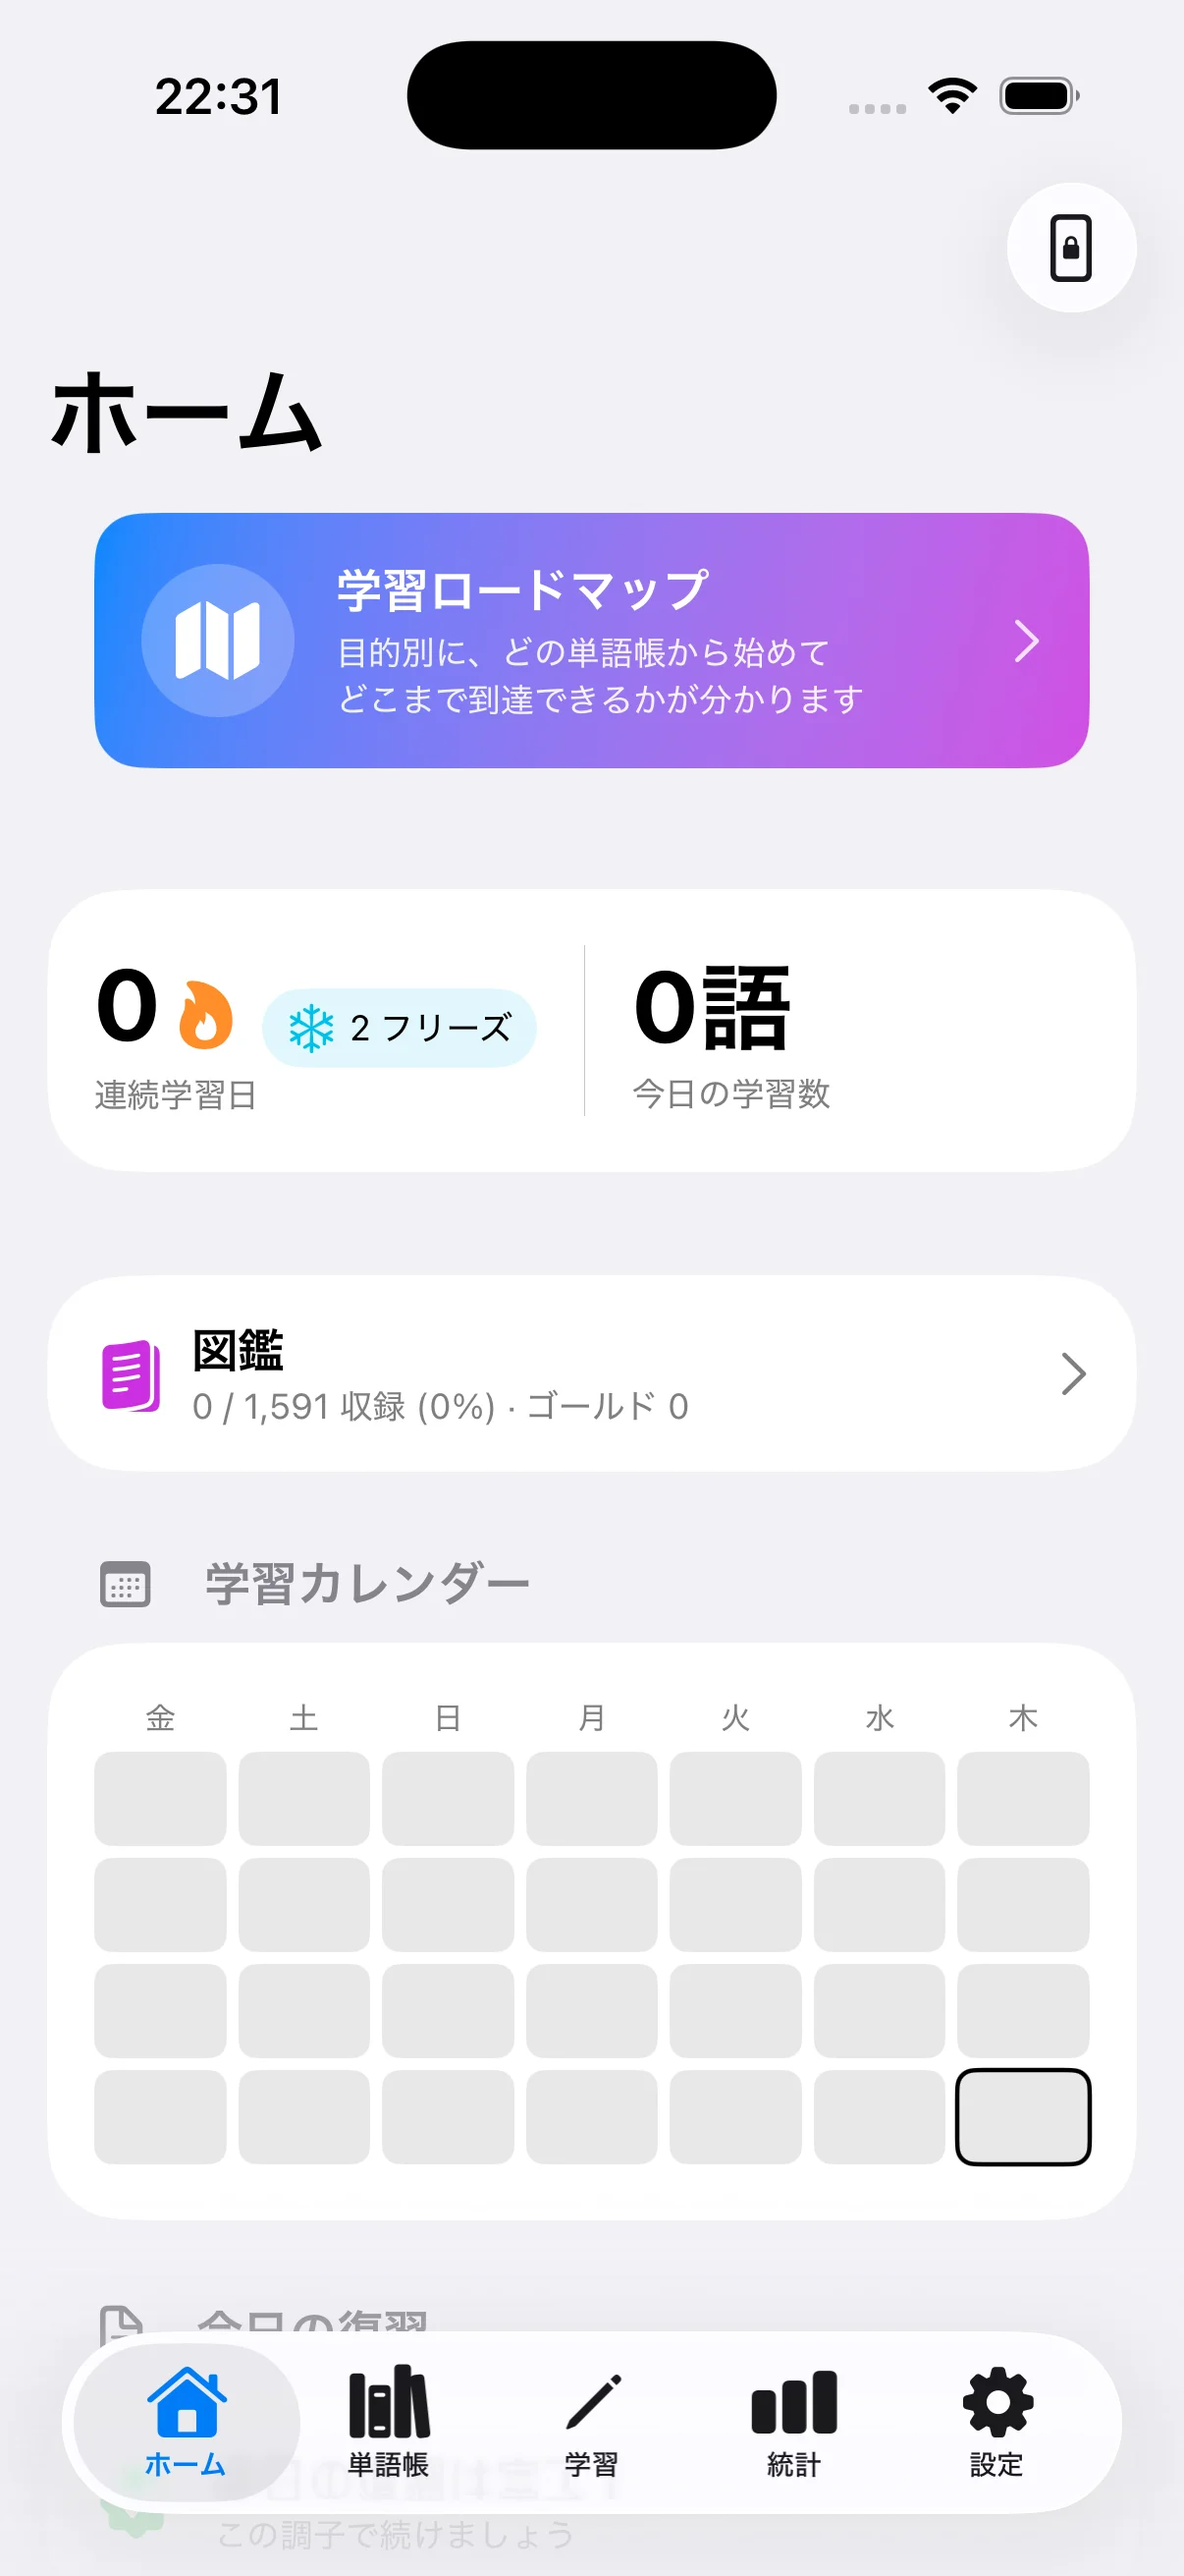
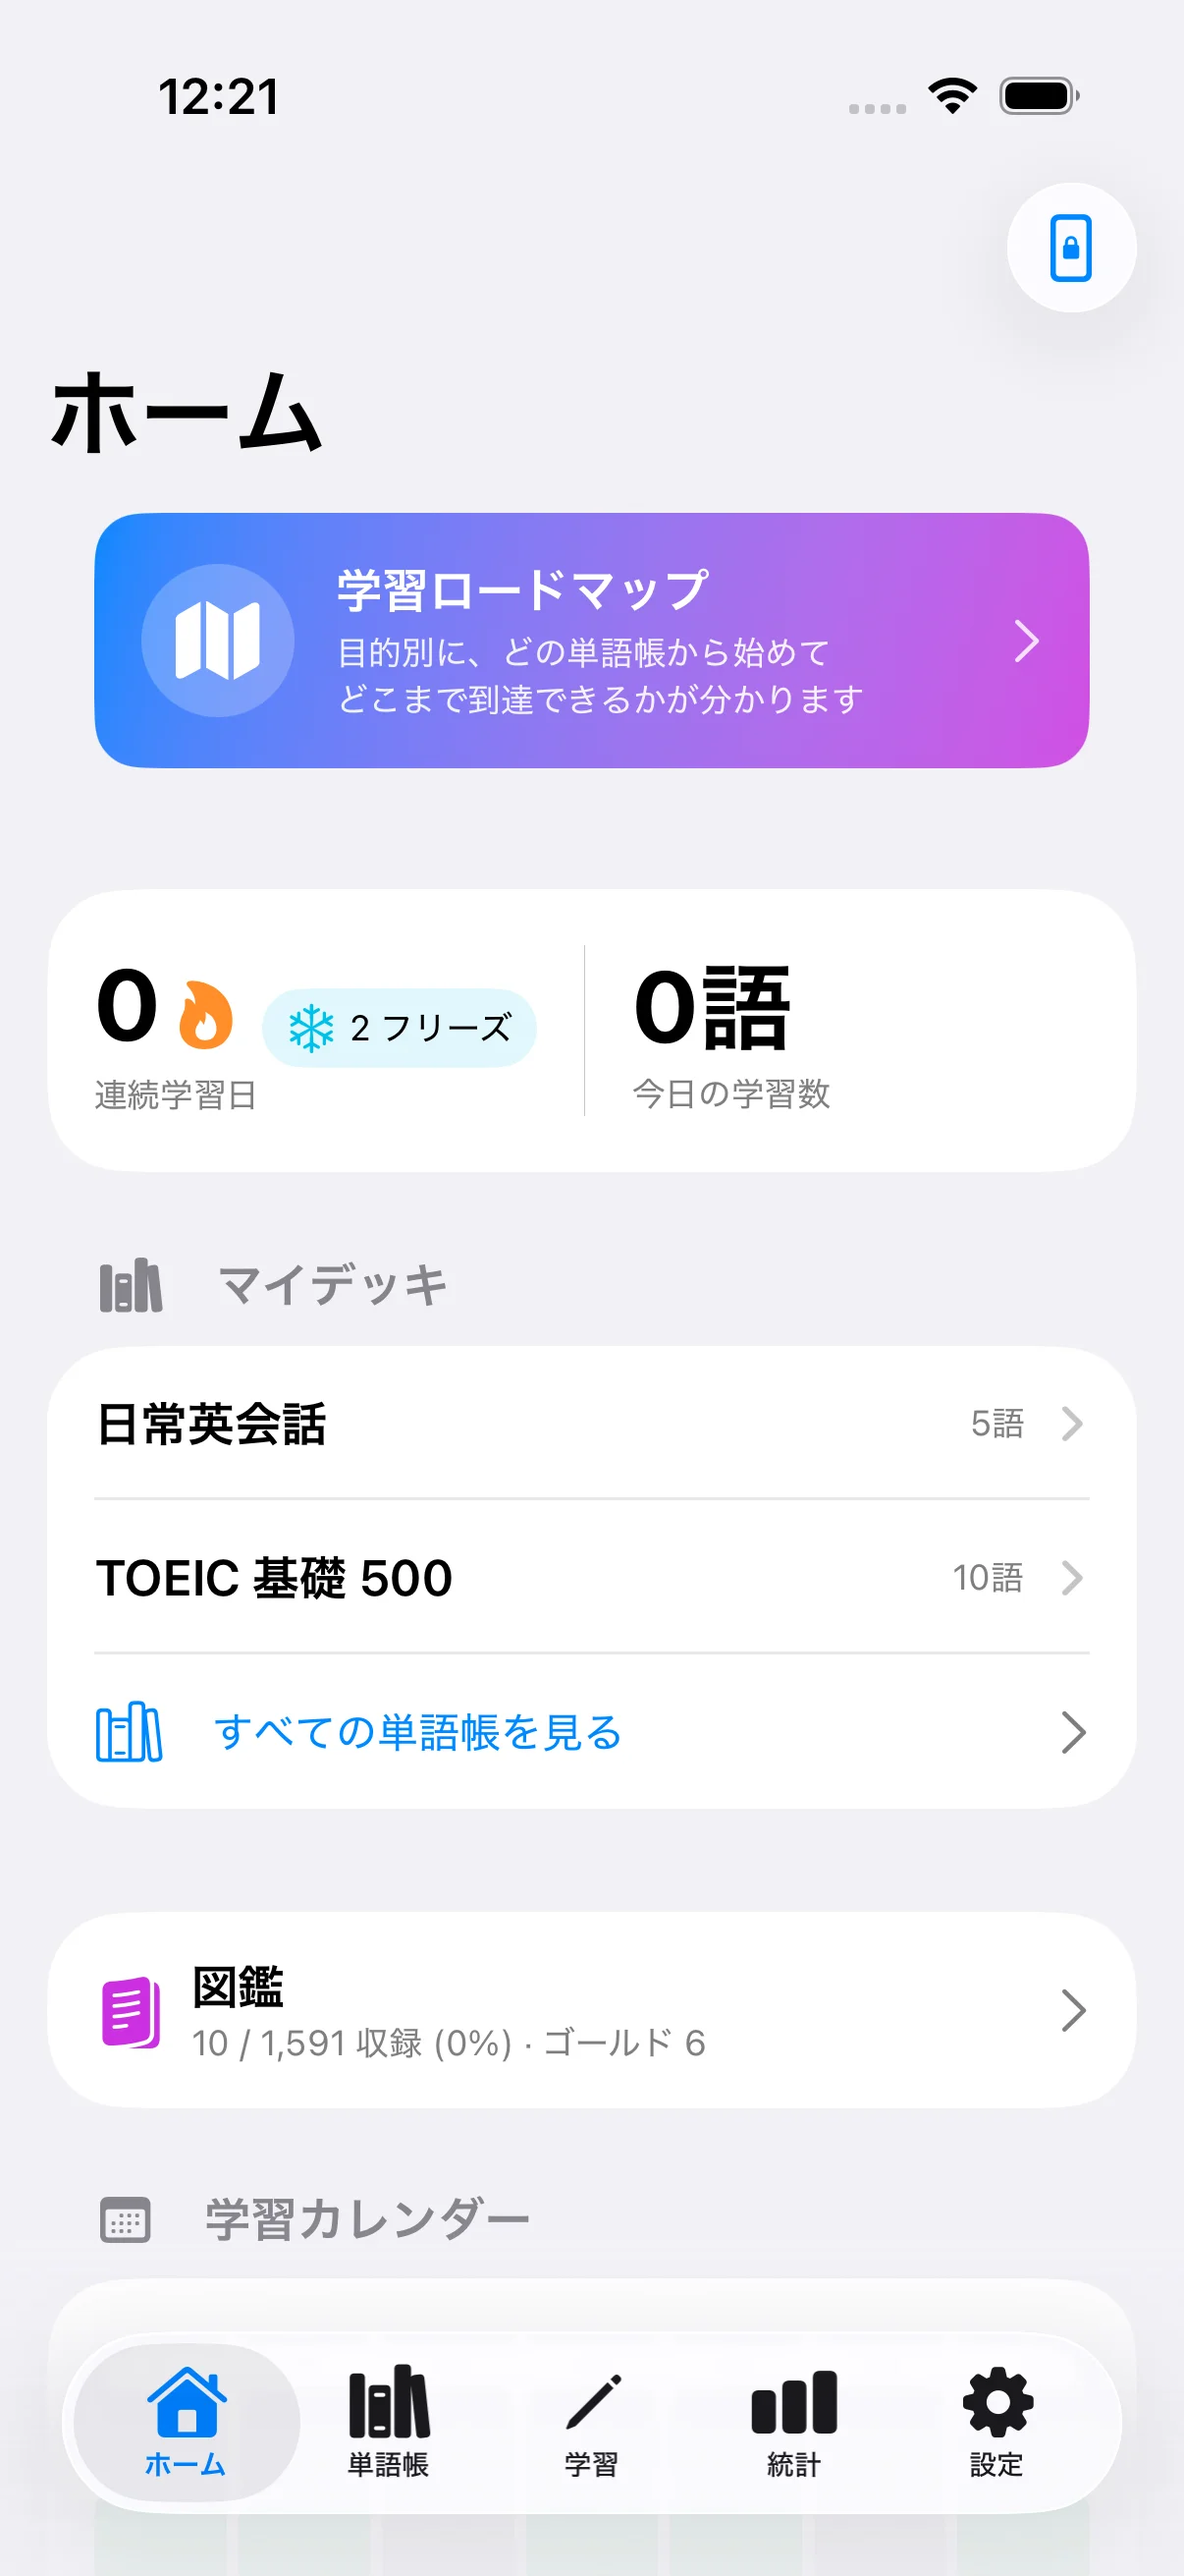
feat: showcase v1.2 study modes and memory hints
- Add new feature sections for 四択 / タイピング / 穴埋め with dedicated
  screenshots so visitors can see each drill mode in action.
- Replace the consolidated study modes section copy to reflect the
  six-mode lineup (flashcard, multiple choice, typing, cloze, AI quiz,
  pronunciation) and the recommended sort→drill→deep flow.
- Add a hints feature section using the flashcard+hint screenshot.
- Refresh the JSON-LD app description with the new mode list.
- FAQ: add entries answering "どのモードから始める?" and
  "覚え方ヒントはいつ出る?".
- Add screenshots: 18_flashcard_with_hint, 19_multiple_choice,
  20_typing, 21_cloze, 17_deck_with_launcher,
  22_study_select_new_layout.

diff --git a/src/data/faq.ts b/src/data/faq.ts
@@ -17,6 +17,14 @@ export const faqItems: FaqItem[] = [
     a: 'iOS 17 以降の iPhone でご利用いただけます。AI クイズ機能は Apple Intelligence 対応機種 (iPhone 15 Pro 以降) と iOS 26 以降が必要です。',
   },
   {
+    q: 'どの学習モードから始めるのがおすすめですか?',
+    a: 'まず①フラッシュカードで知らない単語を仕分け、次に②間違えた単語を自分に合うモード (四択 / タイピング / 穴埋め) で定着、慣れたら③ AI クイズや発音練習で深掘り ── という流れを推奨しています。同じ単語を複数モードで学ぶことで、認識→想起→文脈→発音と段階的に記憶を強化できます。',
+  },
+  {
+    q: '「覚え方ヒント」はどんなときに出ますか?',
+    a: 'プリセット 1,591 語に「語源・語族・覚え方」のヒントが内蔵されています。フラッシュカード裏面では 💡 ボタンでいつでも展開でき、不正解時には自動で表示されます。四択・タイピング・穴埋めの不正解時にも同じヒントが出るため、苦手な単語を覚え直すきっかけになります。完全オフラインで動作します。',
+  },
+  {
     q: 'データはどこに保存されますか？',
     a: '学習データ (単語・デッキ・学習履歴・設定) は端末内 (SwiftData / UserDefaults) に保存されます。iCloud にサインインしている場合は、Apple の iCloud Private Database を経由して同じ Apple ID の他のデバイスとも自動同期されます (同期データはあなただけがアクセスでき、開発者からは閲覧できません)。加えて、アプリ改善と学習傾向分析のため、ユーザーが追加した単語 (front/back) やデッキ名などの利用状況を Firebase Analytics に送信します。匿名 ID と紐付いて保存され、氏名や広告 ID とは紐付けません。設定画面から送信を停止できます。詳細はプライバシーポリシーをご覧ください。',
   },
